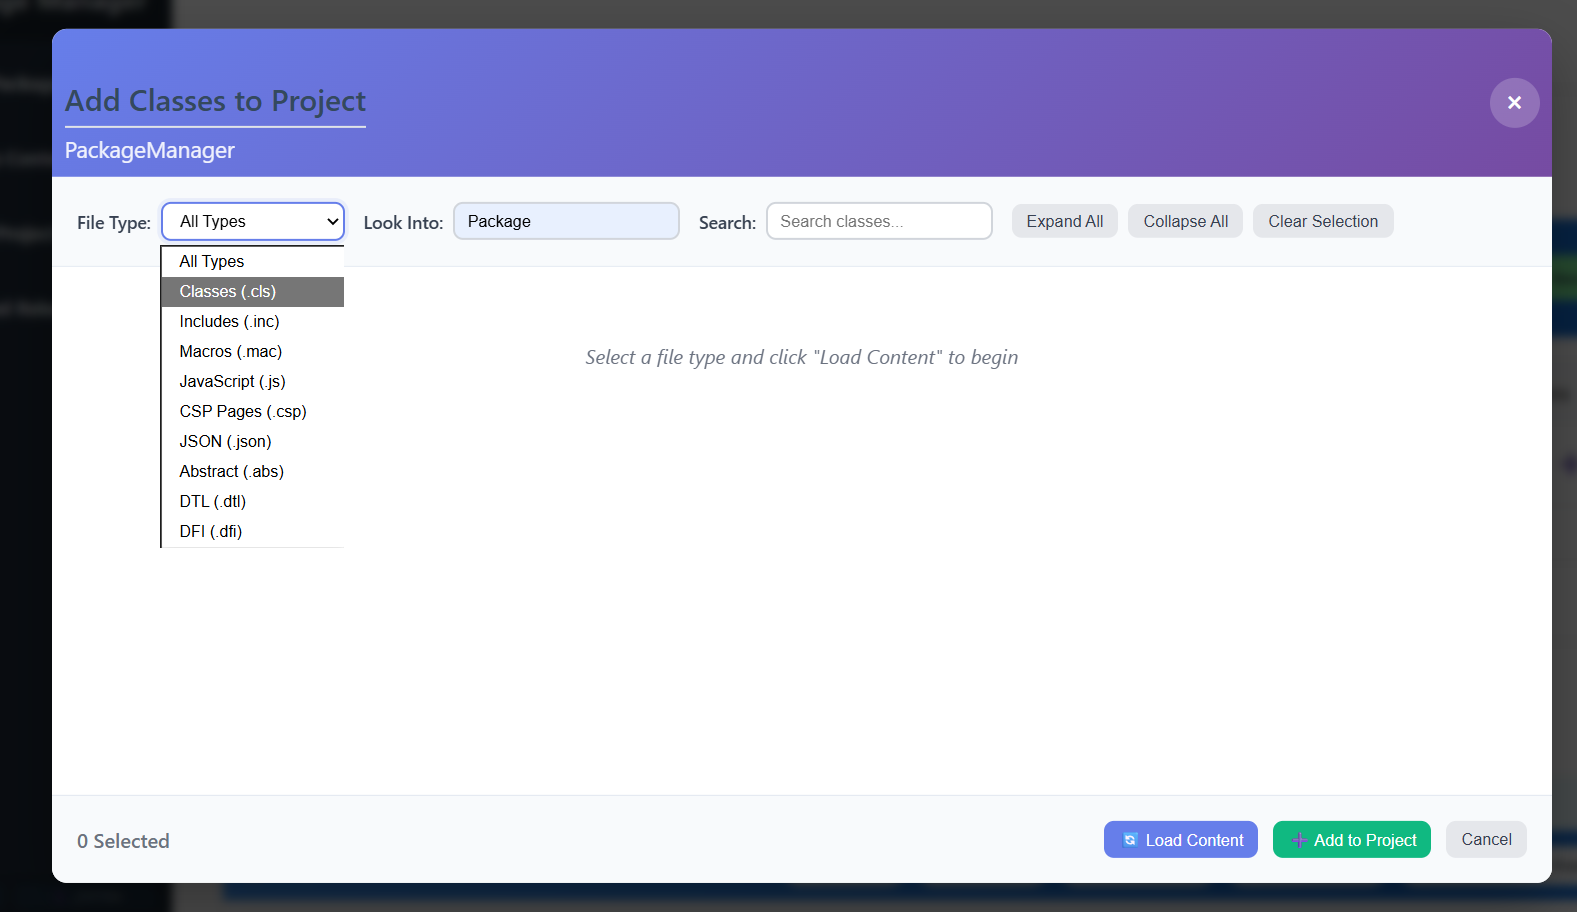
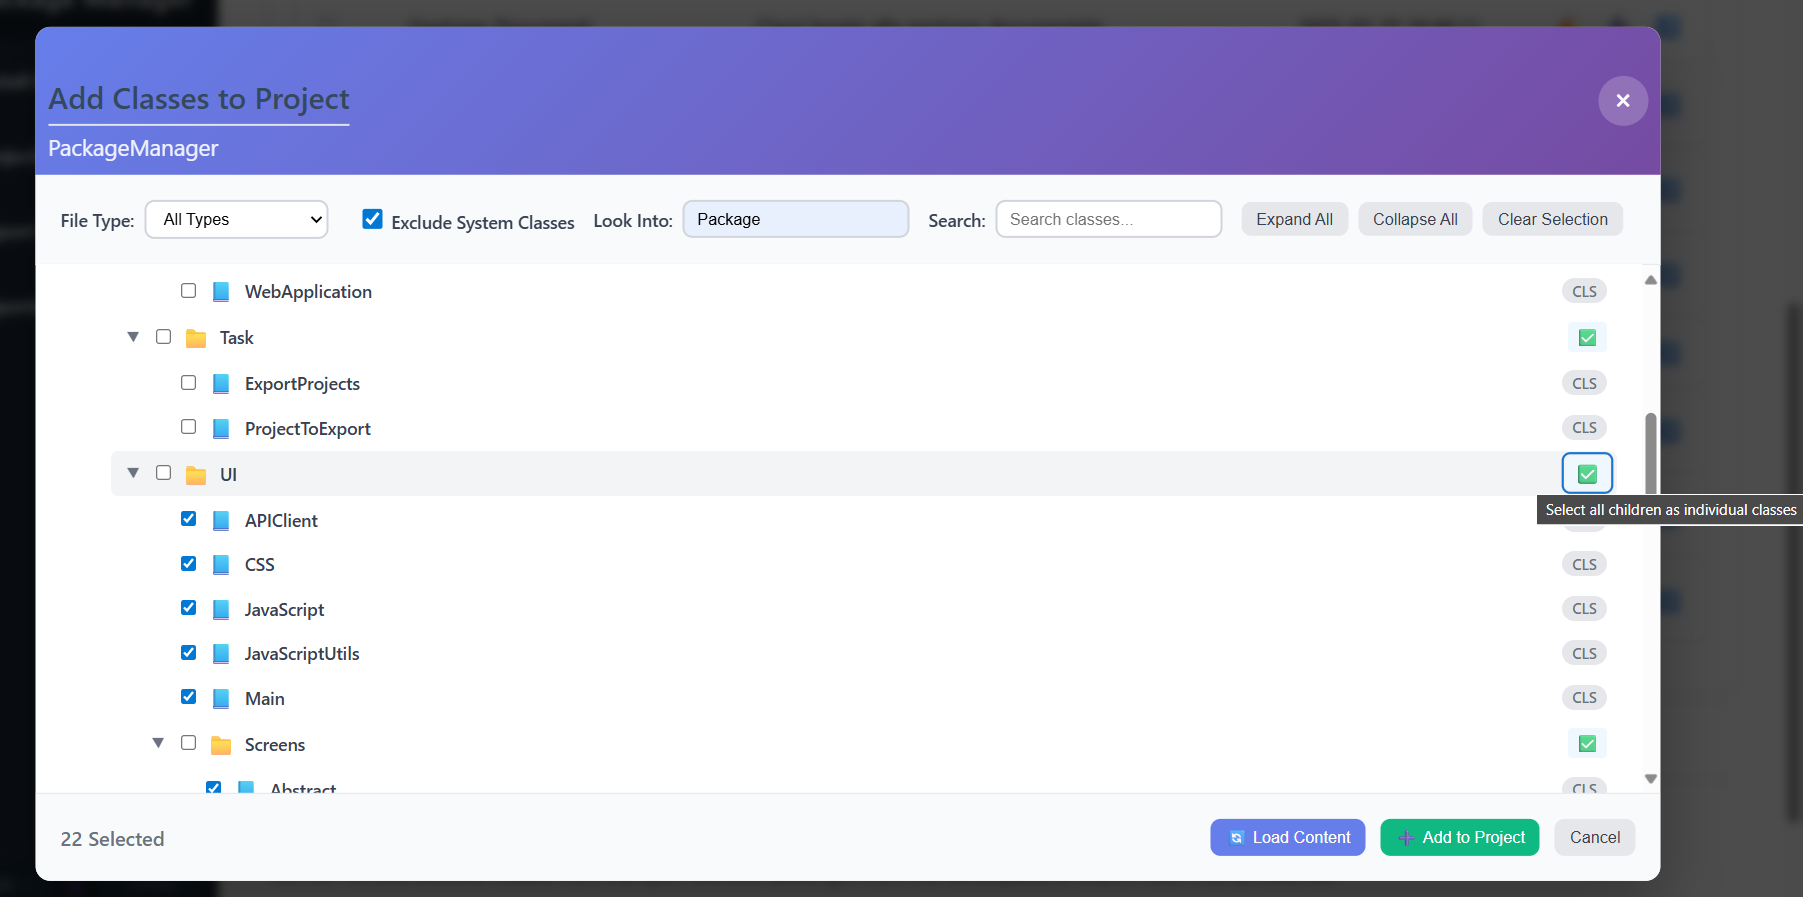
updated user guide and readme

diff --git a/docs/user_guide/Package_Manager_Guide.md b/docs/user_guide/Package_Manager_Guide.md
@@ -2,6 +2,8 @@
 
 This guide will walk you through setting up and using the Package Manager application.
 
+Please be aware that all icons are rendered by your browser, so some may appear differently than they do in the pictures below.
+
 ## Table of Contents
 
 * [📦 Package Manager User Guide](#-package-manager-user-guide)
@@ -19,9 +21,11 @@ This guide will walk you through setting up and using the Package Manager applic
   * [3. Managing Projects](#3-managing-projects)
     * [3.1. Creating a New Project](#31-creating-a-new-project)
     * [3.2. Adding Classes to the Project](#32-adding-classes-to-the-project)
-    * [3.3. Viewing and Exporting Project Content](#33-viewing-and-exporting-project-content)
-    * [3.4. Modifying your project&#39;s description](#34-modifying-your-projects-description)
-    * [3.5. Deleting a Project](#35-deleting-a-project)
+    * [3.3. Understanding Project Items in InterSystems IRIS](#33-understanding-project-items-in-intersystems-iris)
+    * [3.4. Viewing and Exporting Project Content](#34-viewing-and-exporting-project-content)
+    * [3.5. Modifying your project&#39;s description](#35-modifying-your-projects-description)
+    * [3.6. Deleting a Project](#36-deleting-a-project)
+    * [3.7. Removing project items from a project](#37-removing-project-items-from-a-project)
   * [4. Automating Exports with Tasks 🤖](#4-automating-exports-with-tasks-)
     * [4.1. Creating a New Export Task](#41-creating-a-new-export-task)
     * [4.2. Configuring File Purging](#42-configuring-file-purging)
@@ -45,37 +49,31 @@ docker-compose up -d --build
 This command reads the **docker-compose.yml** file and builds the image based on the specifications.
 
 In the following example, we are going to build a container called **iris-packagemanager-test**:
-
 ![001](./pic/001.png "001")
 
 ## 2. Verifying the Docker Image
 
 After running the command, Docker will create a new image. You can verify this by checking the Images section in Docker Desktop. You should see an image named **intersystems/iris-community** with the tag latest-cd.
-
 ![002](./pic/002.png "002")
 
 ## 3. Checking the Running Container
 
 Next, check the Containers section. You should see a container named iris-packagemanager-test that is currently Running. You can also see the ports it's using, which are 9091:1972 and 9092:52773.
-
 ![003](./pic/003.png "003")
 
 ## 4. Monitoring the Container Logs
 
 To see the application's startup process, click on the container name and go to the Logs tab. This shows the log output as the application initializes, compiles classes, and starts up. As you can see, all the source code has been correctly imported and compiled:
-
 ![004](./pic/004.png "004")
 
 ## 5. Inspecting Container Files and Volumes
 
 In the container's details, you can also explore the file system and bind mounts. The Files tab lets you browse the files inside the container. The Bind mounts tab shows how local directories on your host machine are mapped to directories inside the container, such as the storage and exports folders.
-
 ![005](./pic/005.png "005")
 
 ## 6. Checking Source Code
 
 From the Containers section, click on the running container and then on Files. You will see that your source code has been imported into the container ./opt/irisapp/src folder:
-
 ![006](./pic/006.png "006")
 
 # 🖥 User Workflow
@@ -85,7 +83,6 @@ Once the Docker container is running, you can access the application through you
 ## 1. Accessing the Package Manager
 
    Open your browser and navigate to [http://localhost:9092/csp/user/PackageManager.UI.Main.cls](http://localhost:9092/csp/user/PackageManager.UI.Main.cls). This CSP page is the main user interface for the application. You'll be greeted with a welcome page.
-
    ![homepage](./pic/homepage.png "homepage")
 
 ## 2. Installing the API
@@ -93,17 +90,14 @@ Once the Docker container is running, you can access the application through you
    Before you can use the application, you need to install the API. On the left sidebar, click on Install Package Manager. Initially, the API status will be shown as not installed.
    Click the Install API button. The application will install the necessary components.
    API installation is performed by directly calling another CSP page, without using any other API.
-
    ![008](./pic/008.png "008")
 
    When API is not installed, the other sections will report an error like the following:
-
    ![009](./pic/009.png "009")
 
 ### 2.1. Verifying API Installation
 
    After installation, the API status will update to installed and running. You'll see the last successful ping time, confirming that the API is ready for use.
-
    ![010](./pic/010.png "010")
 
 ## 3. Managing Projects
@@ -113,46 +107,81 @@ Once the Docker container is running, you can access the application through you
 
 ### 3.1. Creating a New Project
 
-   To start, click on the + New Project button in the Projects List section. If this is your first time, the screen will show "No projects found" with a large "Create New Project" button.
+   To start, click on the **+ New Project** button in the **Projects List** section. If this is your first time, the screen will show "**No projects found**" with a large "**Create New Project**" button.
    ![011](./pic/011.png "011")
 
-   A pop-up will appear. Enter a unique Project Name and an optional Description. For this guide, we'll name the project "PackageManager" and provide a description stating it contains the source code for the IRIS Package Manager. Click + Create Project.
+   A pop-up will appear. Enter a unique Project Name and an optional Description. For this guide, we'll name the project "**PackageManager**" and provide a description stating it contains the source code for the IRIS Package Manager. Click **+ Create Project**.
    ![012](./pic/012.png "012")
 
 ### 3.2. Adding Classes to the Project
 
-   Your new project will now appear in the list. After creating the project, you need to add your code files. To do this, click the Add Classes to Project icon (a purple plus sign) under the "Actions" column for your project.
+   Your new project will now appear in the list. After creating the project, you need to add your code files. To do this, click the **Add Classes to Project** icon (a purple plus sign) under the "**Actions**" column for your project.
    ![013](./pic/013.png "013")
 
-   This opens a new window.
+   This opens a new window:
    ![014](./pic/014.png "014")
 
-   Use the File Type dropdown to select the type of files you want to add, like Classes (.cls), Includes (.inc), or Macros (.mac). You can also search for specific files. For this example, we'll select All Types and load the content.
+   Use the **File Type** dropdown to select the type of files you want to add, like **Classes** (.cls), **Includes** (.inc), or **Macros** (.mac).
+   You can also search for specific files by using the **Look Into** search box. Use this field to view the content of specific packages inside your namespace using the syntax `Package.SubPackage.Class`.
+   Additionally, system files can be excluded from the results by enabling the **Exclude System Classes** flag (by default, all classes within packages that start with values listed in the list `systemClassesToExclude` of the `PackageManager.PackageManager.inc` file will be excluded).
+
+   For this example, we'll select **All Types**, enable **Exclude System Classes**, look for classes within the `Package` package and load the content.
+   The system will display a hierarchical tree view of all the files in your namespace. Browse through the folders and check the box next to the files you want to add to your project.
+   To select all the files inside a pakage/file path you can click on the **Select all children** button
    ![015](./pic/015.png "015")
 
-   The system will display a hierarchical tree view of all the files in your namespace. Browse through the folders and check the box next to the files you want to add to your project.
-   Once you've selected your files, click the + Add to Project button.
-   ![016](./pic/016.png "016")
+   Once you've selected your files, click the **+ Add to Project** button.
 
-### 3.3. Viewing and Exporting Project Content
+### 3.3. Understanding Project Items in InterSystems IRIS
 
-   Now that your project contains files, you can view them by clicking the Show Project Content in the topbar of the Project List table. The viewer displays all the files you've added, categorized by type (PKG for classes, DIR for other files).
+   In InterSystems IRIS, a project consists of varioustems. These can include:
+
+* Directories containing files like JavaScript, HTML, or images.
+* Packages that contain classes (.cls) and routines.
+* Individual files or classes.
+
+  The key distinction is how you add these items to a project. You can either add an entire package or specific classes from that package.
+
+  **Adding an Entire Package**
+  When you set a whole package as a project item, all its content is automatically included in the project. This applies to all existing files and any new files or classes added to that package later on.
+
+  **Adding Individual Classes**
+  In contrast, if you add specific classes as project items, only those selected classes are included. The containing package itself is not added as a project item. This allows for more granular control over what a project contains.
+
+  The following example illustrates the difference in how packages and classes are associated with a project as project items:
+  ![016](./pic/016.png "016")
+
+  **Important Rules for Project Items**
+  InterSystems IRIS has a strict rule to prevent conflicts: a package and the classes it contains cannot both be project items for the same project.
+
+  If you select a package as a project item, you cannot add its individual classes to the project separately. (Don't worry, the classes are already included because they're inside the package.)
+
+  Similarly, you cannot delete a specific class from a project if the entire package was added as the project item.
+
+### 3.4. Viewing and Exporting Project Content
+
+   Now that your project contains files, you can view them by clicking the **Show Project Content** in the topbar of the **Project List** table. The viewer displays all the files you've added, categorized by type (**PKG** for classes, **DIR** for other files).
+   The **Content Viewer** in InterSystems IRIS helps you identify how items are included. It uses different icons to distinguish between packages that are project items and those that are not. A **light bulb icon** indicates a package that is a project item, while a **black circle icon** is used for other packages.
    ![017](./pic/017.png "017")
 
-   You can export specific files by checking the box next to them and clicking Export Selected. A download prompt will appear, allowing you to save the file as an XML.
+   You can export specific files by checking the box next to them and clicking **Export Selected**. A download prompt will appear, allowing you to save the file as an XML.
    ![018](./pic/018.png "018")
 
-   To export the entire project, return to the Projects List, select your project by checking the box next to its name, and click the Export Selected Project button. This exports the entire project as a single XML file.
+   To export the entire project, return to the Projects List, select your project by checking the box next to its name, and click the **Export Selected Project** button. This exports the entire project as a single XML file.
    ![019](./pic/019.png "019")
 
-### 3.4. Modifying your project's description
+### 3.5. Modifying your project's description
 
    It is possible to modify your project description by clicking on the pencil icon on the Project List section. The actions buttons will be replaced by new ones, allowing you to edit the project details.
    ![020](./pic/020.png "020")
 
-### 3.5. Deleting a Project
+### 3.6. Deleting a Project
 
-   To delete a project, click the trash can icon that appears after entering edit mode (as shown in the image above, next to the "Save Changes" and "Cancel" buttons). This will remove the project from your list.
+   To delete a project, click the trash can icon that appears after entering edit mode (as shown in the image above, next to the "**Save Changes**" and "**Cancel**" buttons). This will remove the project from your list.
+
+### 3.7. Removing project items from a project
+
+   To remove project items from a project, go to the **Projects Content** section and select the items to remove from a project. Note that, if the entire package was added as the project item, you cannot remove a specific class from a project but you must remove the whole package. Packages added as project items can be identified by the **light bulb icon**.
 
 ## 4. Automating Exports with Tasks 🤖
 
@@ -164,11 +193,10 @@ Once the Docker container is running, you can access the application through you
    Clicking this opens the Create New Task window. Here, you'll configure the task's schedule and details:
    ![021](./pic/021.png "021")
 
-   * **Task Name & Description**: Give your task a name, like "Daily Export", and a description to explain its purpose.
-   * **Schedule Configuration**: Choose how often you want the task to run. Options include Daily, Weekly, or Only Once. You can specify the frequency (e.g., Every 1 day) and a Run time.
-   ![022](./pic/022.png "022")
-
-   * It's important to note that tasks, when run from the InterSystems IRIS Task Manager, will inherit the privileges and identity of the user who created them in the Package Manager (visible in the sidebar).
+* **Task Name & Description**: Give your task a name, like "Daily Export", and a description to explain its purpose.
+* **Schedule Configuration**: Choose how often you want the task to run. Options include Daily, Weekly, or Only Once. You can specify the frequency (e.g., Every 1 day) and a Run time.
+  ![022](./pic/022.png "022")
+* It's important to note that tasks, when run from the InterSystems IRIS Task Manager, will inherit the privileges and identity of the user who created them in the Package Manager (visible in the sidebar).
 
 ### 4.2. Configuring File Purging
 

diff --git a/README.md b/README.md
@@ -33,20 +33,40 @@ IRIS for UNIX (Ubuntu Server LTS for x86-64 Containers) 2025.2 (Build 227U) Thu 
 
 When working with the container, no separate application installation is required, as all code is pre-packaged within the `./src` folder of the image.
 
+#### Export File Paths (Container Environment)
+
+For containerized deployments, exported files are stored in the following paths:
+
+Temporary files: `/opt/irisapp/export/packagemanager/tmp/`
+Export task files: `/opt/irisapp/export/packagemanager/task/`
+
+This is set as default for this repository.
+
 ### Working with Local InterSystems IRIS Community Edition
 
 * [InterSystems IRIS Community edition](https://community.intersystems.com/post/introducing-evaluation-service-community-edition-downloads)
 * [Visual Studio Code](https://code.visualstudio.com/) and related [InterSystems extension pack](https://marketplace.visualstudio.com/items?itemName=intersystems-community.objectscript-pack)
 
 For a local InterSystems IRIS Community Edition environment, the application must be installed by importing the Package Manager installation XML file from the `./installation` folder.
-Installation file can be imported using the "Classes" menu of IRIS Management Portal. 
+Installation file can be imported using the "Classes" menu of IRIS Management Portal.
 
 Once installed, the user interface will be available at the endpoint returned by the following method:
+
 ```
 w ##class(PackageManager.UI.Main).GetMainPageClassName()
 ```
 
 Host and port must be adjusted according to the specifications of your connection.
+
+#### Export File Paths (Local Installation)
+
+For local InterSystems IRIS Community Edition installations, exported files are stored in the following paths:
+
+Temporary files: `{InstallDirectory}tmp/packagemanager/`
+Export task files: `{InstallDirectory}tmp/packagemanager/task/export/`
+
+Where `{InstallDirectory}` corresponds to the value returned by command `$system.Util.InstallDirectory()`.
+This project has been designed to work both on UNIX or Windows installations of InterSystems IRIS, so the path will be automatically updated according to the operating system in use.
 
 ---
 
